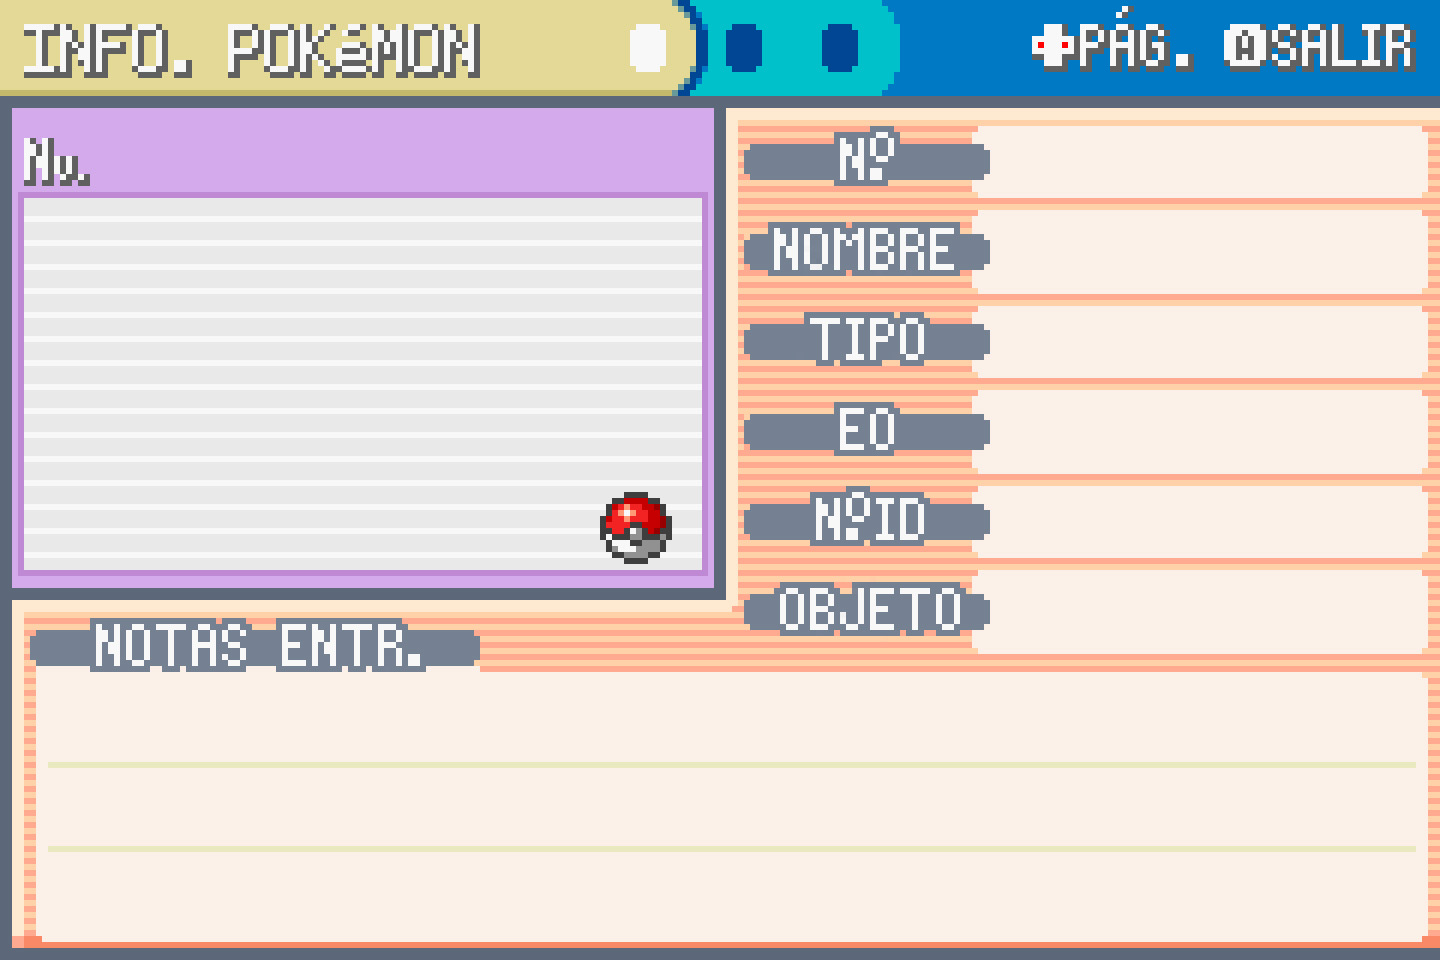
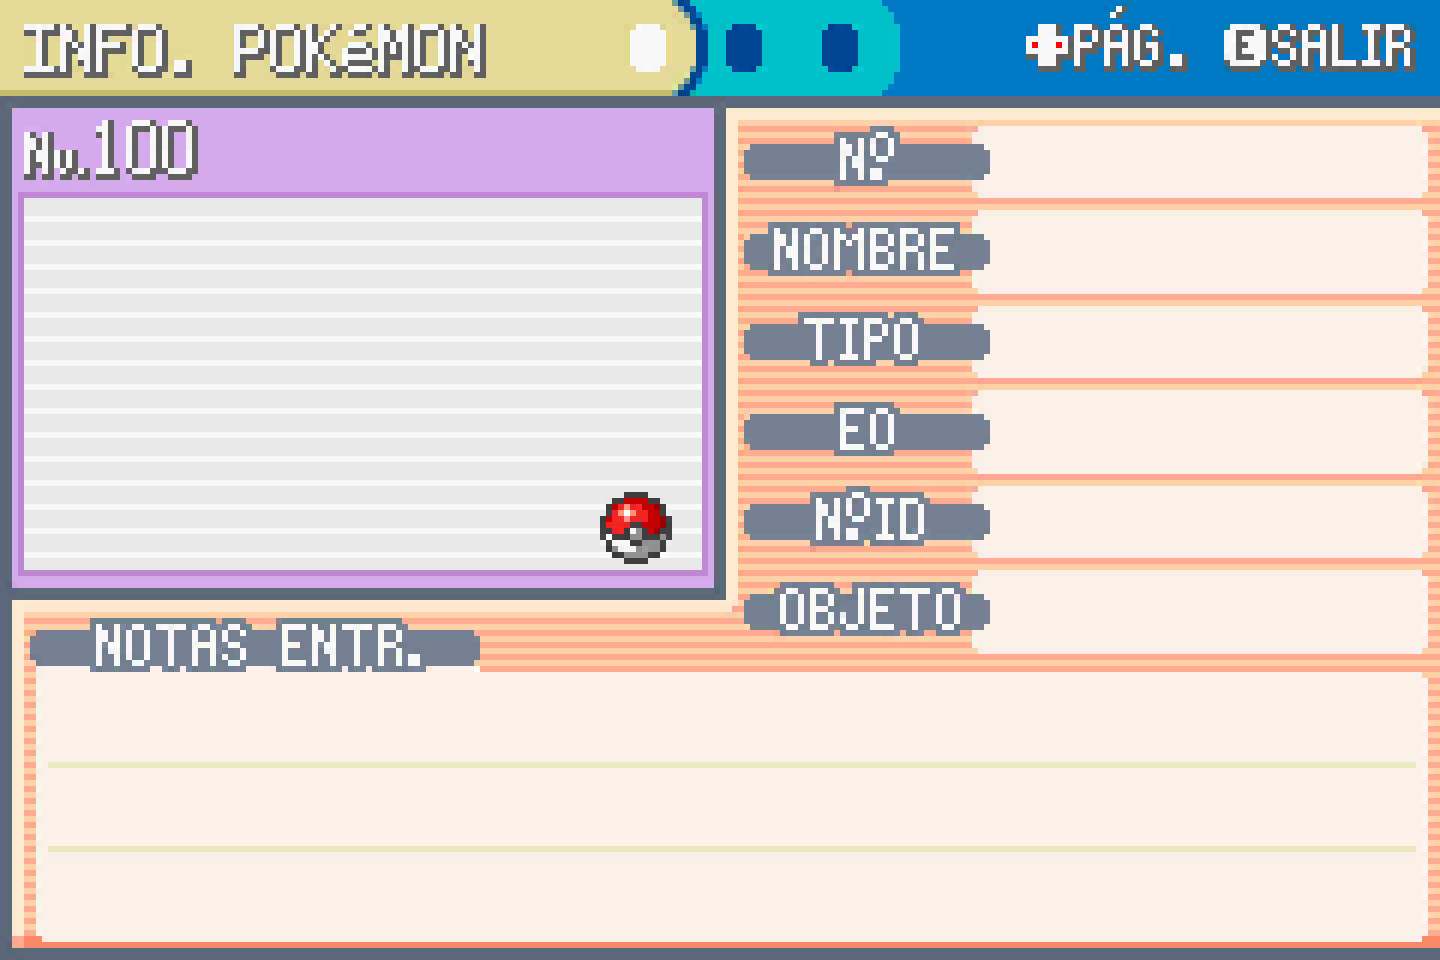
Pokemon Datos
Css terminado responsive

diff --git a/src/pages/datos/_PokeDatos.scss b/src/pages/datos/_PokeDatos.scss
@@ -1,0 +1,118 @@
+.info-pokemon-wrapper{
+   width: 100%;
+   height: 100%;
+   overflow: hidden;
+   .info-pokemon-background{
+      width: 100%;
+      height: 100%;
+      background: url("/images/info-pokemon-bg.jpg");
+      background-size: 100% 100%;
+   }
+   .pokemon-name-wrapper{
+      position: absolute;
+      top: 12%;
+      left: 16.5%;
+      .pokemon-name{
+         color: #f8f8f8;
+         font-size: 6.5vh;
+         font-weight: 300;
+         line-height: 1;
+         letter-spacing: -0.6vh;
+         text-shadow:   0.6vh 0px 0px #60605e,
+                        0 0.6vh 0px #60605e,
+                        0.6vh 0.6vh 0px #60605e;
+         transform-origin: left;
+         transform: scaleX(1.07);
+      }
+   }
+   .pokemon-sprite{
+      position: absolute;
+      top: 20.6%;
+      left: 1.5%;
+      right: 51.2%;
+      bottom: 39.4%;
+      overflow: hidden;
+      img{
+         width: 100%;
+         height: 100%;
+         object-fit: contain;
+         transform: rotateY(180deg) scaleX(1.15);
+         animation: pokemonAnimate .8s ease-out;
+      }
+   }
+   .pokemon-data-wrapper{
+      position: absolute;
+      top: 13.1%;
+      left: 69.5%;
+      right: 0.8%;
+      bottom: 31.9%;
+      display: grid;
+      grid-template-rows: 1fr 1.2fr 1fr 1.2fr 1fr 1.2fr;
+      grid-template-columns: 1fr;
+      gap: 2% 0;
+      .data-row{
+         color: #504c40;
+         font-size: 6.5vh;
+         font-weight: 300;
+         line-height: 1;
+         letter-spacing: -0.6vh;
+         display: flex;
+         align-items: center;
+         span{
+            transform-origin: left;
+            transform: scaleX(1.05);
+         }
+      }
+      .pokemon-tipo{
+         position: relative;
+         img{
+            position: absolute;
+            width: 45%;
+            height: 100%;
+            &:nth-child(2){
+               left: 50%;
+            }
+         }
+      }
+   }
+   .pokemon-notas{
+      position: absolute;
+      top: 71%;
+      left: 3.4%;
+      right: 50%;
+      bottom: 3.5%;
+      display: grid;
+      align-items: flex-end;
+      grid-template-rows: repeat(3, 1fr);
+      grid-template-columns: 1fr;
+      .pokemon-stats{
+         color: #504c40;
+         font-size: 6.5vh;
+         font-weight: 300;
+         line-height: 1;
+         letter-spacing: -0.6vh;
+         display: flex;
+         align-items: flex-end;
+         transform-origin: left;
+         transform: scaleX(1.05);
+      }
+   }
+}
+
+@keyframes pokemonAnimate {
+   0%{
+      transform: rotateY(180deg) scaleX(1.15);
+   }
+   25%{
+      transform: rotateY(180deg) scaleX(1.15)translateY(-14%);
+   }
+   50%{
+      transform: rotateY(180deg) scaleX(1.15);
+   }
+   75%{
+      transform: rotateY(180deg) scaleX(1.15)translateY(-14%);
+   }
+   100%{
+      transform: rotateY(180deg) scaleX(1.15);
+   }
+}

diff --git a/src/pages/datos/PokeDatos.tsx b/src/pages/datos/PokeDatos.tsx
@@ -1,0 +1,76 @@
+import { useEffect } from 'react'
+import { useNavigate, useParams } from 'react-router-dom'
+import { useGetOnePokemon } from '../../hooks/useFetch';
+
+function PokeDatos() {
+  const { nombre } = useParams();
+  const { pokemon } = useGetOnePokemon(nombre);
+  const navigate = useNavigate();
+
+  useEffect(() => {
+    const pressKey = (e: KeyboardEvent) => {
+      if (e.key === "e") {
+        navigate("/");
+      }
+    }
+    document.addEventListener("keydown", pressKey);
+    return () => document.removeEventListener("keydown", pressKey);
+  }, [])
+  
+
+  return (
+    <div className="info-pokemon-wrapper">
+      <div className="info-pokemon-background"/>
+      <div className="pokemon-name-wrapper">
+        <h1 className="pokemon-name">
+          {pokemon?.name?.toUpperCase()}
+        </h1>
+      </div>
+      <div className="pokemon-sprite">
+        <img
+          src={pokemon?.sprites.versions?.['generation-iii']['firered-leafgreen'].front_default}
+          alt={pokemon?.name}
+        />
+      </div>
+      <div className="pokemon-data-wrapper">
+        <div className="pokemon-id data-row">
+          <span>{pokemon?.id}</span>
+        </div>
+        <div className="pokemon-nombre data-row">
+          <span>{pokemon?.name.toUpperCase()}</span>
+        </div>
+        <div className="pokemon-tipo data-row">
+          { pokemon?.types.map(type => {
+            return(
+              <img
+                src={`/images/tipos/${type.type.name}.png`}
+                alt={type.type.name}
+                key={type.type.name}
+              />
+            )})
+          }
+        </div>
+        <div className="pokemon-eo data-row">
+          <span>Rojo</span>
+        </div>
+        <div className="pokemon-number-id data-row">
+          <span>{Math.floor(Math.random() * (99999 - 10000) + 10000)}</span>
+        </div>
+        <div className="pokemon-objeto data-row">
+          <span>NO TIENE</span>
+        </div>
+      </div>
+      <div className="pokemon-notas">
+        { pokemon?.stats.slice(0, 3).map(stat => {
+          return(
+            <div className={`pokemon-${stat.stat.name} pokemon-stats`}>
+              {`${stat.stat.name.toUpperCase()}: ${stat.base_stat}`}
+            </div>
+          )})
+        }
+      </div>
+    </div>
+  )
+}
+
+export default PokeDatos

diff --git a/src/hooks/useFetch.ts b/src/hooks/useFetch.ts
@@ -12,21 +12,27 @@ export function useGetAllPokemons() {
           ...pokemon,
           id: index + 1
       }));
-      setPokemons(allPokemons)
+      setPokemons(allPokemons);
+      sessionStorage.setItem("pokemons", JSON.stringify(allPokemons));
     }
 
-    fetchData();
+    const pokemonStorage = sessionStorage.getItem("pokemons");
+    if (pokemonStorage) {
+      setPokemons(JSON.parse(pokemonStorage));
+    } else{
+      fetchData();
+    }
   }, [])
 
   return { pokemons }
 }
 
-export function useGetOnePokemon(selection: PokemonTemplate) {
+export function useGetOnePokemon(selection: string | undefined) {
   const [pokemon, setPokemon] = useState<SinglePokemon | null>(null);
 
   useEffect(() => {
     const fetchData = async() => {
-      const response = await fetch(`https://pokeapi.co/api/v2/pokemon/${selection.name}`);
+      const response = await fetch(`https://pokeapi.co/api/v2/pokemon/${selection}`);
       const data = await response.json();
       setPokemon(data);
     }

diff --git a/src/App.tsx b/src/App.tsx
@@ -1,6 +1,6 @@
-import { BrowserRouter as Router, Routes, Route } from "react-router-dom"
-import PC from "./pages/pc/PC"
-import PokeDetail from "./pages/datos/PokeDetail"
+import { BrowserRouter as Router, Routes, Route } from "react-router-dom";
+import PC from "./pages/pc/PC";
+import PokeDatos from "./pages/datos/PokeDatos";
 
 function App() {
   return (
@@ -8,7 +8,7 @@ function App() {
       <main className="pokemon-firered-wrapper">
         <Routes>
           <Route path="/" element={<PC/>}/>
-          <Route path="/datos/:name" element={<PokeDetail/>}/>
+          <Route path="/datos/:nombre" element={<PokeDatos/>}/>
         </Routes>
       </main>
     </Router>

diff --git a/src/index.scss b/src/index.scss
@@ -4,7 +4,7 @@
    margin: 0;
    padding: 0;
    box-sizing: border-box;
-   font-family: "Pokemon-Firered";
+   font-family: "Pokemon-Firered", sans-serif;
 }
 
 img{
@@ -23,3 +23,4 @@ img{
 }
 
 @import "/src/pages/pc/PC";
+@import "/src/pages/datos/PokeDatos";
